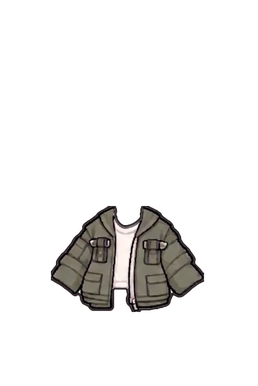
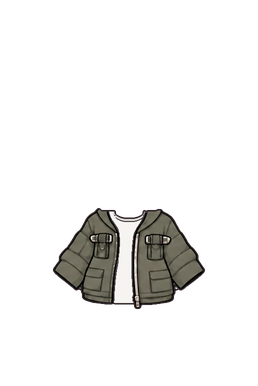
아바타: 상의 40개 (새 24개), 목선 따라 자르고 자켓 안에 흰 티
Claude-Session: https://claude.ai/code/session_015VxnKS3baGbwJXJNNp74ix

Changed region(s): [[0.186, 0.5285, 0.8062, 0.8083]]

diff --git a/avatar.js b/avatar.js
@@ -9,7 +9,9 @@ const AV_CHEEK = [["#ff8fa3"], ["#ffab91"], ["#ff5c8a"], ["#ff6b6b"], ["#ffb36b"
 const AV_FRECK = [2, 3]; // 주근깨가 같이 있는 볼터치 번호
 const AV_NAMES = {
   hair: ["부스스 짧은 머리", "레이어드 단발", "일자 단발", "웨이브 단발", "짧은 스포츠머리", "뾰족 머리", "뽀글 머리", "똥머리", "긴 생머리", "양 똥머리", "양 갈래 땋은 머리", "긴 웨이브"],
-  top: ["세일러 블라우스", "크림 후드티", "검정 재킷", "분홍 가디건", "고양이 후드티", "흰 셔츠", "야구 점퍼", "곰돌이 니트", "검정 프릴 블라우스", "줄무늬 티", "하얀 패딩", "빨간 망토", "카키 야상", "멜빵 원피스", "검정 후드티", "레이스 블라우스"],
+  top: ["세일러 블라우스", "크림 후드티", "검정 재킷", "분홍 가디건", "고양이 후드티", "흰 셔츠", "야구 점퍼", "곰돌이 니트", "검정 프릴 블라우스", "줄무늬 티", "하얀 패딩", "빨간 망토", "카키 야상", "멜빵 원피스", "검정 후드티", "레이스 블라우스",
+    "경찰 제복", "소방관 점퍼", "빨간 로봇 갑옷", "군복 재킷", "공룡 후드티", "우주인 점퍼", "축구 유니폼", "레이싱 재킷", "해적 조끼", "검정 도복", "가죽 재킷", "낙서 후드티",
+    "리본 세일러 티", "분홍 블레이저", "공주 상의", "보라 오프숄더", "검정 교복 가디건", "민트 퍼프 블라우스", "보라 별 조끼", "산호 오프숄더", "눈꽃 블라우스", "딸기 멜빵 블라우스", "무지개 리본 조끼", "크림 레이스 가디건"],
   eye: ["기본 눈", "날렵한 눈", "졸린 눈", "웃는 눈", "윙크", "반짝 눈", "울먹 눈", "화난 눈", "옆 보는 눈", "걱정 눈", "놀란 눈", "시큰둥 눈", "하트 눈", "빙글빙글 눈", "속눈썹 눈", "점 눈"],
   cheek: ["볼터치 없음", "볼 정중앙", "콧잔등 + 주근깨", "볼 정중앙 + 주근깨", "빗금 볼터치", "작은 동그라미", "콧잔등", "크게 발그레"],
   mouth: ["미소", "활짝 웃는 입", "고양이 입", "작은 입", "시무룩 입", "삐뚤 입", "씩 웃는 입", "메롱", "이 보이게 웃기", "놀란 입", "뽀뽀 입", "일자 입", "송곳니 웃음", "울먹 입", "크게 웃는 입", "쪽 입"],
@@ -17,7 +19,7 @@ const AV_NAMES = {
 };
 const AV_PRICE = { // 0이면 무료 (기본으로 입는 것)
   hair: [0, 6, 6, 7, 5, 7, 8, 8, 0, 9, 9, 8],
-  top: [8, 7, 9, 7, 9, 0, 10, 8, 9, 0, 9, 10, 9, 9, 8, 10],
+  top: [8, 7, 9, 7, 9, 0, 10, 8, 9, 0, 9, 10, 9, 9, 8, 10, 11, 11, 12, 10, 11, 12, 9, 11, 11, 10, 10, 10, 9, 10, 11, 10, 10, 9, 11, 10, 11, 10, 11, 9],
   eye: Array(16).fill(0), mouth: Array(16).fill(0), cheek: Array(8).fill(0), // 눈·입·볼터치는 모두 무료
   bottom: [6, 6, 0, 0, 7, 6, 7, 8, 7, 0, 8, 7],
 };

diff --git a/av/tops.py b/av/tops.py
@@ -1,0 +1,83 @@
+# 상의 시트(raw/top1~3.webp, 저장소에 없음)를 잘라 av/top-0~39.png로. av/ 안에서: python3 tops.py ./
+GRID={
+ 'top1':[(21,242,[(75,375),(420,732),(807,1113),(1171,1492)]),(266,487,[(69,355),(426,730),(799,1126),(1186,1505)]),(526,735,[(67,377),(434,737),(803,1126),(1196,1494)]),(767,991,[(63,378),(433,742),(818,1118),(1188,1505)])],
+ 'top2':[(120,385,[(35,335),(373,698),(717,1028),(1050,1376)]),(414,689,[(27,340),(370,699),(726,1016),(1050,1376)]),(739,1026,[(11,339),(370,683),(703,1022),(1043,1363)])],
+ 'top3':[(99,330,[(34,335),(379,685),(721,1040),(1084,1416)]),(412,648,[(23,343),(372,692),(735,1026),(1080,1410)]),(728,960,[(7,360),(381,696),(749,1014),(1062,1432)])],
+}
+def cells():
+  out=[]
+  for f,rows in GRID.items():
+    a=np.array(Image.open(f'raw/{f}.webp').convert('RGB')).astype(float)
+    for y0,y1,cols in rows:
+      for x0,x1 in cols: out.append(np.pad(a,((12,12),(12,12),(0,0)),constant_values=255)[y0+2:y1+23,x0+2:x1+23])
+  return out
+from PIL import Image; import numpy as np; from scipy import ndimage
+import sys, os
+AV='./'; OUT=sys.argv[1] if len(sys.argv)>1 else './'
+W,H=516,772; S=2   # 2배 캔버스에서 작업
+INK=np.array([45,34,38.]); TEE=np.array([246,244,241.])
+SC=0.48*S; TOPY=203*S; CX=129*S
+OPEN={2,6,12,26}           # 앞이 열린 자켓: 사이를 흰 티로
+HOLE={17,19,20,21,23}       # 목 안쪽 흰 빈 곳이 있는 옷: 흰 티로
+NOCUT={0,3,5,8,13,15,16,24,28,29,30,31,33,35,36,37}  # 앞 깃이 목에 걸친 옷: 목선 자르지 않음
+DY={}                        # 옷별 위아래 보정 (출력 px)
+NECK=dict(ny=207, d=9, nw=19) # 목선: 가운데 y=ny+d, 폭 ±nw (출력 px)
+def ramp(m,s=1.2): return np.clip((ndimage.gaussian_filter(m.astype(float),s)-.5)*3+.5,0,1)
+head=np.array(Image.open(AV+'base-0.png').resize((W,H),Image.NEAREST))[...,3]>128
+yy,xx=np.mgrid[0:H,0:W]
+head&=yy<212*S
+head=ndimage.binary_erosion(head,iterations=3)
+nx=(xx-CX)/(NECK['nw']*S); neck=(np.abs(nx)<1)&(yy<(NECK['ny']+NECK['d']*np.sqrt(np.clip(1-nx**2,0,1)))*S)
+def make(k,c):
+  dark=c.min(-1)<220
+  m=ndimage.binary_fill_holes(ndimage.binary_closing(dark,iterations=2))
+  lab,n=ndimage.label(m); sz=ndimage.sum(m,lab,range(1,n+1)); m=np.isin(lab,1+np.where(sz>800)[0])
+  light=(c.mean(-1)>165)&(c.max(-1)-c.min(-1)<70)
+  m&=~((ndimage.distance_transform_edt(m)<=3)&light); m=ndimage.binary_opening(m,iterations=1)
+  tee=np.zeros_like(m)
+  if k in OPEN:  # 두 쪽 사이 빈 곳 = 흰 티
+    cl=ndimage.binary_closing(m,structure=np.ones((1,121)),iterations=1)
+    tee=cl&~m; tee=ndimage.binary_opening(tee,iterations=2)
+  core=ndimage.binary_erosion(m,iterations=1)
+  _,idx=ndimage.distance_transform_edt(~core,return_indices=True); rgb=c[idx[0],idx[1]]
+  rgb[tee]=TEE; m=m|tee
+  ys,xs=np.where(m); x0,x1,y0=xs.min(),xs.max(),ys.min()
+  # 캔버스로
+  im=Image.fromarray(np.dstack([rgb,m*255.]).astype(np.uint8)).crop((x0,y0,x1+1,ys.max()+1))
+  t=Image.fromarray((tee*255).astype(np.uint8)).crop((x0,y0,x1+1,ys.max()+1))
+  sz=(round(im.width*SC),round(im.height*SC)); im=im.resize(sz,Image.LANCZOS); t=t.resize(sz,Image.LANCZOS)
+  ox,oy=round(CX-sz[0]/2),round(TOPY+DY.get(k,0)*S)
+  cv=np.zeros((H,W,4)); cv[oy:oy+sz[1],ox:ox+sz[0]]=np.array(im); tv=np.zeros((H,W)); tv[oy:oy+sz[1],ox:ox+sz[0]]=np.array(t)
+  a=cv[...,3]>128; rgb=cv[...,:3]; tm=tv>128
+  a&=~head
+  if k in HOLE:  # 목 안쪽 흰 빈 곳(깃 안, 후드 안)도 흰 티로
+    wz=(np.abs(xx-CX)<26*S)&(yy<228*S)
+    lab,n=ndimage.label(a&(rgb.min(-1)>232))
+    for i in range(1,n+1):
+      r=lab==i
+      if (r&wz).any() and r.sum()<1500*S*S: tm|=r
+    if tm.any(): rgb[tm]=TEE
+  if k not in NOCUT: a&=~(neck&~tm)
+  rib=np.zeros_like(a)
+  if tm.any():  # 흰 티 동그란 목선 + 목 시보리
+    tx=(xx-CX)/(14*S); yc=(212+6*np.sqrt(np.clip(1-tx**2,0,1)))*S
+    tn=(np.abs(tx)<1)&(yy<yc); tm&=a
+    a&=~(tn&tm); rib=tm&a&(np.abs(tx)<1.15)&(yy<yc+3*S)
+    _rgb=rgb.copy(); rgb[rib]=[222,218,214]
+  a=ndimage.binary_opening(a,iterations=1)
+  # 고른 검정 테두리 + 부드럽게
+  ring=2
+  body=ramp(ndimage.binary_erosion(a,iterations=ring)); item=ramp(a)
+  outer=ramp(ndimage.distance_transform_edt(~a)<=1)
+  core=ndimage.binary_erosion(a,iterations=ring)
+  _,idx=ndimage.distance_transform_edt(~core,return_indices=True); rgb=rgb[idx[0],idx[1]]
+  # 원래 선은 그대로 살리고, 가장자리만 새 선
+  out=body[...,None]*rgb+(1-body[...,None])*INK; al=np.maximum(item,outer)
+  # 흰 티 안쪽 옷과 닿는 곳에 얇은 선
+  if tm.any():
+    tl=(tm&a&ndimage.binary_dilation(a&~tm,iterations=2))|(rib&ndimage.binary_dilation(~a|~tm,iterations=1)&(yy>yc-S))|(tm&a&(yy>=yc+3*S)&(yy<yc+4*S)&(np.abs(tx)<1.1))
+    f=ramp(tl,.7)[...,None]*.9; out=f*INK+(1-f)*out
+  img=Image.fromarray(np.dstack([out,al*255]).round().clip(0,255).astype(np.uint8)).resize((W//2,H//2),Image.LANCZOS)
+  img.save(f'{OUT}top-{k}.png',optimize=True)
+C=cells()
+for k,c in enumerate(C): make(k,c)
